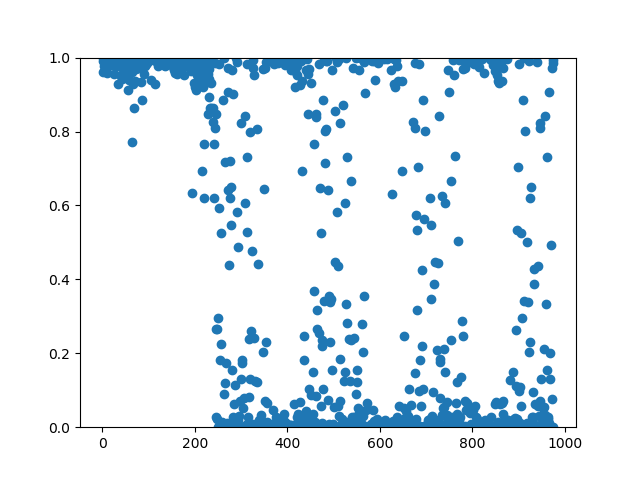
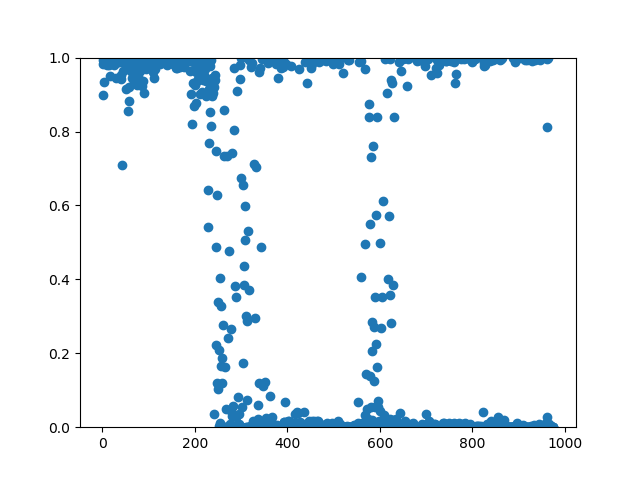
Implement a script to recursively regenerate sequence
We hypothesize that seeding the LSTM with a more recent
state near where it starts to fail will improve its results
where it fails

diff --git a/src/viz/SequenceRegenerationViz.py b/src/viz/SequenceRegenerationViz.py
@@ -1,25 +1,70 @@
-import numpy as np
 import matplotlib.pyplot as plt
+import numpy as np
 
 #TODO: perhaps fix this and make it dynamic
 root_path = 'E:\\Users\\Documents\\School Year 18-19\\Term 1\\CPSC 449\\Sealer_NN\\src\\app\\new_rnn\\out\\'
 
 class SequenceRegenerationViz:
-    def compare_sequences(self, actual, predicted, seed_length):
-        length_to_compare_to = min(len(actual), len(predicted))
-        seed_length = min(seed_length, length_to_compare_to)
+    def compare_multiple_sequences(self, reference_sequence, alignment_data, seed_length):
+        file = open(root_path + 'multi_align.txt', 'w+')
 
+        for i in range(len(alignment_data)):
+            alignment_tuple = alignment_data[i]
+            predicted_sequence = alignment_tuple[0]
+            matches = alignment_tuple[1]
+            current_lower_bound = alignment_tuple[2]
+
+            comparison_string = ""
+
+            for j in range(seed_length):
+                comparison_string += "S"
+
+            for j in range(len(matches)):
+                if matches[j]:
+                    comparison_string += "-"
+                else:
+                    comparison_string += "X"
+
+            first_mismatch_idx = None
+            for j in range(len(matches)):
+                if not matches[j]:
+                    first_mismatch_idx = seed_length + current_lower_bound + j
+                    break
+
+            padding = ""
+            for j in range(current_lower_bound):
+                padding += " "
+
+            file.write("SEQ " + str(i) + "\n")
+            file.write(reference_sequence + '\n')
+            file.write(padding + comparison_string + '\n')
+            file.write(padding + predicted_sequence + '\n')
+            file.write('\n')
+            file.write('Mean Match: ' + str(round(np.mean(matches), 1)) + '\n')
+            if first_mismatch_idx is not None:
+                file.write('First Mismatch: ' + str(first_mismatch_idx) + '\n')
+            file.write('\n')
+        file.close()
+
+
+    def compare_sequences(self, actual, predicted, seed_length, matches):
         comparison_string = ""
 
         for i in range(seed_length):
             comparison_string += "S"
 
-        for i in range(length_to_compare_to - seed_length):
-            idx = seed_length + i
-            if actual[idx] == predicted[idx]:
+        for i in range(len(matches)):
+            if matches[i]:
                 comparison_string += "-"
             else:
                 comparison_string += "X"
+
+        first_mismatch_idx = None
+        for i in range(len(matches)):
+            if not matches[i]:
+                first_mismatch_idx = seed_length + i
+                break
+
 
         file = open(root_path + 'align.txt', 'w+')
 
@@ -30,11 +75,14 @@ class SequenceRegenerationViz:
         file.write(predicted + '\n')
         file.write('\n')
         file.write('PREDICTED\n')
+        file.write('Mean Match: ' + str(round(np.mean(matches)), 1) +'\n')
+        if first_mismatch_idx is not None:
+            file.write('First Mismatch: ' + str(first_mismatch_idx) + '\n')
         file.close()
 
-    def sliding_window_average_plot(self, correctness_vector, window_length=10):
+    def sliding_window_average_plot(self, correctness_vector, window_length=10, offset=0, id=""):
         bases = len(correctness_vector)
-        position = np.arange(bases) + 1
+        position = np.arange(bases) + 1 + offset
         averages = np.zeros(bases)
         for i in range(bases):
             if i < window_length:
@@ -46,12 +94,13 @@ class SequenceRegenerationViz:
 
         plt.figure()
         plt.plot(position, averages)
-        plt.ylim(0, 1)
-        plt.savefig(root_path + 'sliding_window_probability.png')
+        plt.ylim(0, 1.1)
+        plt.xlim(0, int(max(position) * 1.05))
+        plt.savefig(root_path + id + 'sliding_window_probability.png')
         plt.clf()
 
-    def top_base_probability_plot(self, class_probabilities, correct_index_vector, top=2):
-        position = np.arange(len(correct_index_vector)) + 1
+    def top_base_probability_plot(self, class_probabilities, correct_index_vector, top=2, offset=0, id=""):
+        position = np.arange(len(correct_index_vector)) + 1 + offset
         sorted_probabilities = np.sort(class_probabilities, axis=1)
 
         y = []
@@ -68,14 +117,16 @@ class SequenceRegenerationViz:
 
         for i in range(top):
             plt.figure()
-            label = root_path + 'top_' + str(i+1) + '_probability'
+            label = root_path + id + 'top_' + str(i+1) + '_probability'
             plt.scatter(position, y[i])
-            plt.ylim(0, 1)
+            plt.ylim(0, 1.1)
+            plt.xlim(0, int(max(position) * 1.05))
             plt.savefig(label + '.png')
             plt.clf()
 
         plt.figure()
         plt.scatter(position, correct_base_probability)
-        plt.ylim(0, 1)
-        plt.savefig(root_path + 'correct_base_probability.png')
+        plt.ylim(0, 1.1)
+        plt.xlim(0, int(max(position) * 1.05))
+        plt.savefig(root_path + id + 'correct_base_probability.png')
         plt.clf()

diff --git a/src/app/new_rnn/predict_helper.py b/src/app/new_rnn/predict_helper.py
@@ -1,0 +1,102 @@
+import numpy as np
+
+import app.new_rnn.implementation_constants as IMP_CONSTANTS
+import constants.EncodingConstants as CONSTANTS
+from onehot.OneHotVector import OneHotVectorDecoder
+from preprocess.KmerLabelEncoder import KmerLabelEncoder
+
+
+def _first_mismatch(seq1, seq2):
+    length = min(len(seq1), len(seq2))
+    for i in range(length):
+        if seq1[i] != seq2[i]:
+            return i
+    else:
+        return None
+
+def regenerate_sequence_with_reseeding(implementation, min_seed_length, model, full_sequence):
+    lower_bound = 0
+    upper_bound = min_seed_length
+    sequence_length = len(full_sequence)
+    results = []
+
+    while lower_bound + min_seed_length <= upper_bound:
+        model.reset_states()
+        sequence = full_sequence[lower_bound:sequence_length]
+        predicted_sequence, basewise_probabilities = regenerate_sequence(implementation, min_seed_length, model, sequence)
+        first_mismatch_idx = _first_mismatch(predicted_sequence, sequence) + lower_bound
+
+        tuple = (predicted_sequence, sequence, basewise_probabilities, lower_bound, first_mismatch_idx)
+        results.append(tuple)
+
+        if first_mismatch_idx is None:
+            break
+        else:
+            lower_bound = int((lower_bound + first_mismatch_idx)/2)
+            upper_bound = first_mismatch_idx
+
+    return results
+
+
+def regenerate_sequence(implementation, min_seed_length, model, full_sequence):
+    label_encoder = KmerLabelEncoder()
+    prediction_length = 1
+    one_hot_decoder = OneHotVectorDecoder(prediction_length, encoding_constants=CONSTANTS)
+
+    sequence_length = len(full_sequence)
+    start_string = full_sequence[0:min_seed_length]
+
+    bases_to_predict = sequence_length - min_seed_length
+
+    basewise_probabilities = np.zeros((bases_to_predict, len(CONSTANTS.ONE_HOT_ENCODING)))
+
+    remaining_length = bases_to_predict
+    if implementation == IMP_CONSTANTS.STATIC_PREDICTION:
+        current_sequence = str(start_string)
+        lower_bound = 0
+        upper_bound = lower_bound + min_seed_length
+        while remaining_length > 0:
+            seed = current_sequence[lower_bound:upper_bound]
+            input_seq = label_encoder.encode_kmers([seed], [], with_shifted_output=False)[0]
+
+            prediction = model.predict(input_seq)
+            decoded_prediction = one_hot_decoder.decode_sequences(prediction)
+            current_sequence += decoded_prediction[0][0]
+            basewise_probabilities[lower_bound] = prediction[0]
+
+            remaining_length -= 1
+            lower_bound += 1
+            upper_bound += 1
+    elif implementation == IMP_CONSTANTS.SINGLE_BASE_PREDICTION:
+        current_sequence = str(start_string)
+        length = min_seed_length
+
+        seed = current_sequence[0:length - 1]
+        input_seq = label_encoder.encode_kmers([seed], [], with_shifted_output=False)[0]
+        model.predict(input_seq)
+        while remaining_length > 0:
+            base = current_sequence[length-1:length]
+            base_encoding = label_encoder.encode_kmers([base], [], with_shifted_output=False)[0]
+
+            prediction = model.predict(base_encoding)
+            decoded_prediction = one_hot_decoder.decode_sequences(prediction)
+            current_sequence += decoded_prediction[0][0]
+            basewise_probabilities[length - min_seed_length] = prediction[0]
+
+            remaining_length -= 1
+            length += 1
+    elif implementation == IMP_CONSTANTS.EXTENDING_SEQUENCE_PREDICTION:
+        current_sequence = str(start_string)
+        length = min_seed_length
+        while remaining_length > 0:
+            seed = current_sequence[0:length]
+            input_seq = label_encoder.encode_kmers([seed], [], with_shifted_output=False)[0]
+
+            prediction = model.predict(input_seq)
+            decoded_prediction = one_hot_decoder.decode_sequences(prediction)
+            current_sequence += decoded_prediction[0][0]
+            basewise_probabilities[length - min_seed_length] = prediction[0]
+
+            remaining_length -= 1
+            length += 1
+    return current_sequence, basewise_probabilities

diff --git a/src/app/new_rnn/app_keras_predict_fasta_recursive_seed.py b/src/app/new_rnn/app_keras_predict_fasta_recursive_seed.py
@@ -20,7 +20,6 @@ def main():
 
     path = '../data/ecoli_contigs/ecoli_contig_1000.fasta'
     sequence = importer.import_fasta([path])[0]
-    sequence_length = len(sequence)
 
     embedding_dim = 25
     latent_dim = 100
@@ -36,21 +35,32 @@ def main():
     elif implementation == IMP_CONSTANTS.EXTENDING_SEQUENCE_PREDICTION:
         model = SingleLSTMModel(min_seed_length=min_seed_length, embedding_dim=embedding_dim, latent_dim=latent_dim,
                                 with_gpu=True)
-
     model.load_weights('../weights/my_model_weights.h5')
+    results = helper.regenerate_sequence_with_reseeding(implementation, min_seed_length, model, sequence)
 
-    predicted_string_with_seed, basewise_probabilities = helper.regenerate_sequence(implementation, min_seed_length, model, sequence)
+    alignment_data = []
 
-    predicted_sequence = predicted_string_with_seed[min_seed_length:sequence_length]
-    actual_sequence = sequence[min_seed_length:sequence_length]
+    for i in range(len(results)):
+        tuple = results[i]
+        predicted_sequence = tuple[0]
+        reference_sequence = tuple[1]
+        basewise_probabilities = tuple[2]
+        current_lower_bound = tuple[3]
 
-    matches = validator.compare_sequences(predicted_sequence, actual_sequence)
+        seedless_predicted_sequence = predicted_sequence[min_seed_length:]
+        seedless_reference_sequence = reference_sequence[min_seed_length:]
 
-    correct_index_vector = label_encoder.encode_kmers([actual_sequence], [], [])[0][0]
+        matches = validator.compare_sequences(seedless_predicted_sequence, seedless_reference_sequence)
 
-    viz.compare_sequences(sequence, predicted_string_with_seed, min_seed_length, matches)
-    viz.top_base_probability_plot(basewise_probabilities, correct_index_vector, offset=min_seed_length)
-    viz.sliding_window_average_plot(matches, offset=min_seed_length)
+        correct_index_vector = label_encoder.encode_kmers([seedless_reference_sequence], [], [])[0][0]
+
+        viz.top_base_probability_plot(basewise_probabilities, correct_index_vector, offset=current_lower_bound+min_seed_length, id=str(i)+"_")
+        viz.sliding_window_average_plot(matches, offset=current_lower_bound+min_seed_length, id=str(i)+"_")
+
+        alignment_tuple = (predicted_sequence, matches, current_lower_bound)
+        alignment_data.append(alignment_tuple)
+
+    viz.compare_multiple_sequences(sequence, alignment_data, min_seed_length)
 
 
 if __name__ == "__main__":

diff --git a/src/predict/new_rnn/SingleLSTMModel.py b/src/predict/new_rnn/SingleLSTMModel.py
@@ -50,6 +50,10 @@ class SingleLSTMModel:
         generator = DataGenerator(X, self.min_seed_length, self.batch_size, log_samples=self.log_samples)
         self.model.fit_generator(generator, epochs=self.epochs)
 
+    def reset_states(self):
+        if self.model is not None:
+            self.model.reset_states()
+
     def save_weights(self, path):
         if self.model is not None:
             self.model.save_weights(path)

diff --git a/src/app/new_rnn/implementation_constants.py b/src/app/new_rnn/implementation_constants.py
@@ -1,0 +1,3 @@
+STATIC_PREDICTION = 1
+SINGLE_BASE_PREDICTION = 2
+EXTENDING_SEQUENCE_PREDICTION = 3
